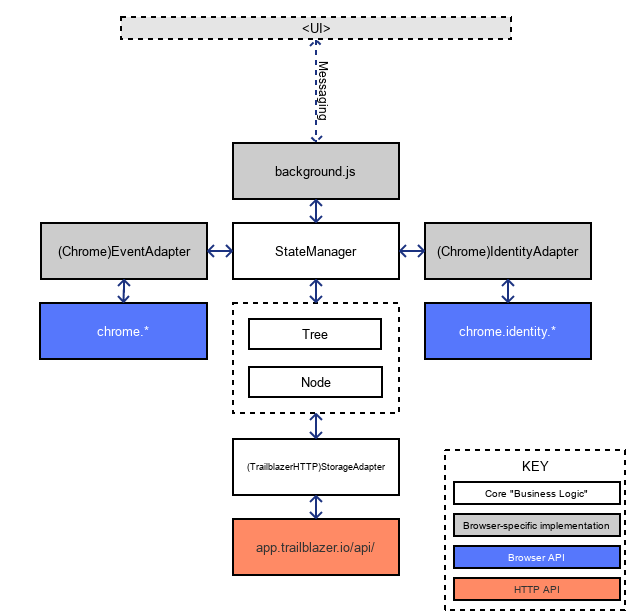
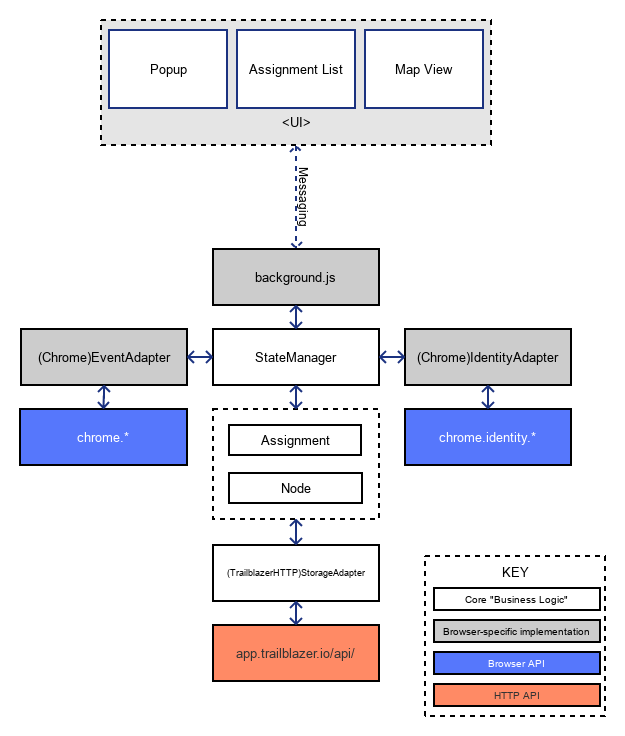
Update README with Domain concepts

diff --git a/README.md b/README.md
@@ -3,6 +3,33 @@
 Trailblazer is a Chrome extension built to track a user's browsing activity and
 build up a map, helping them make sense of the places they visit.
 
+## Domain Concepts
+
+### Map / Assignment
+
+This is the container in which browsing activity is stored.
+
+As far as vernacular is concerned, it should be noted here that Assignment and
+Map essentially refer to the same construct, but from different contexts (and
+subsequently different boundaries regarding what they encompass).
+
+When referring to it as an Assignment, this is usually from a context where the
+data model is being considered in some detail (e.g. interacting with the API).
+In these kinds of contexts it is often important to make the distinction
+between the Map as a whole (which encompasses the Assignment, its Nodes and
+often the User), and the Assignment component which acts as a container object
+for Nodes and a join model between a Project and a User. In the case where it
+is being referred to as a Map, it's less important to consider the intricacies
+of the data model, considering it as a 'sum of its parts' - often in the
+context of design and UI/UX.
+
+### Node
+
+This is the 'smallest' item in the data model, encompassing a visit to some web
+address in the context of an Assignment. It houses information about the site,
+as well as meta-data such as when the address was first visited. In future it
+may also house information such as return visits and time spent viewing/idle.
+
 ## Structure
 
 The extension is structured in the following way:
